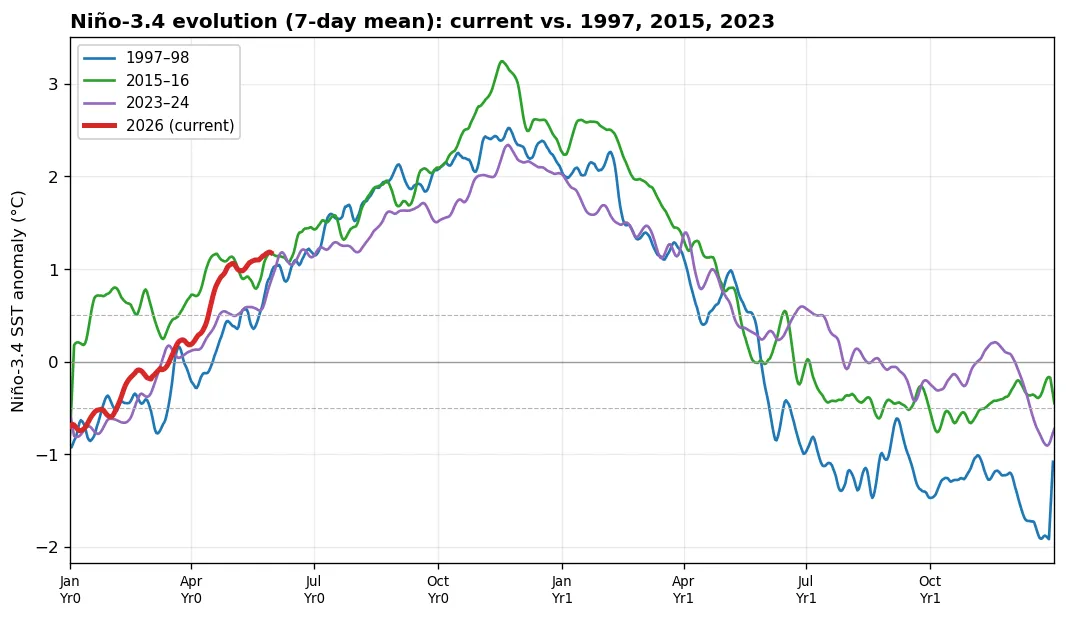
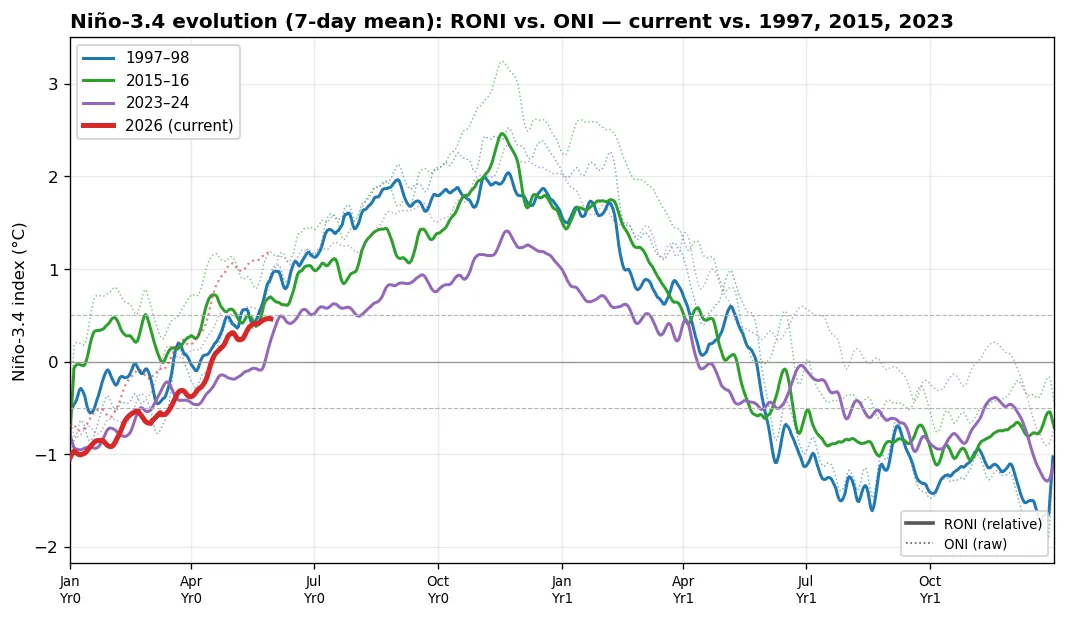
El Niño analogs: detrend for comparability (RONI/ONI + global-mean-removed maps)
- Niño-3.4 overlay now shows RONI (Niño-3.4 minus 20°S–20°N tropical mean, bold)
  with the raw ONI faint/dotted for reference — removes the warming background so
  events decades apart line up (2015's record ONI collapses toward 1997 in RONI)
- flavor bars are now relative Niño indices (each region minus the 20°S–20°N mean)
- matching-phase maps subtract the area-weighted global-mean anomaly (detrended)
- captions/footers updated to explain the relative framing

diff --git a/sst.html b/sst.html
@@ -296,30 +296,30 @@
     <div class="chart-card">
       <div class="chart-card-header">
         <h2>This Event vs. 1997, 2015 &amp; 2023</h2>
-        <p>Niño-3.4 anomaly (7-day running mean) through each event's development year and the following year &mdash; the current event (bold red) overlaid on the three most recent strong/super El Niños.</p>
+        <p>Niño-3.4 evolution (7-day running mean) through each event's development year and the next. Bold lines are <b>RONI</b> &mdash; the relative index (Niño-3.4 minus the 20&deg;S&ndash;20&deg;N tropical-mean anomaly), which removes the rising warming background so events decades apart are comparable; faint dotted lines are the raw <b>ONI</b> for reference. The current event is red. Note how 2015's record ONI shrinks toward 1997 once the background is removed.</p>
       </div>
       <div class="img-wrap"><img src="assets/sst/events_nino34.webp?v=202606011324" alt="Niño-3.4 evolution: current event vs 1997/2015/2023" loading="lazy"></div>
-      <div class="chart-card-footer"><span class="chart-sources">OISST v2.1 daily &middot; 7-day mean &middot; anomaly vs 1991&ndash;2020</span></div>
+      <div class="chart-card-footer"><span class="chart-sources">OISST v2.1 daily &middot; 7-day mean &middot; RONI = Niño-3.4 &minus; 20&deg;S&ndash;20&deg;N mean</span></div>
     </div>
 
     <!-- EVENT COMPARISON: multi-region flavor bars -->
     <div class="chart-card">
       <div class="chart-card-header">
         <h2>El Niño Flavor &mdash; Niño Regions vs. Analogs</h2>
-        <p>Niño-1+2 / 3 / 3.4 / 4 anomalies (7-day mean) at the same calendar day as the latest data, for the current event and the three analogs. Strong eastern (1+2, 3) relative to central (4) marks an East-Pacific-flavored event.</p>
+        <p>Relative Niño-1+2 / 3 / 3.4 / 4 anomalies (7-day mean, each minus the 20&deg;S&ndash;20&deg;N tropical mean) at the same calendar day as the latest data, for the current event and the three analogs. Removing the tropical background makes the regions comparable across events; strong eastern (1+2, 3) relative to central (4) marks an East-Pacific-flavored event.</p>
       </div>
       <div class="img-wrap"><img src="assets/sst/events_bars.webp?v=202606011324" alt="Niño-region anomalies, current event vs analogs" loading="lazy"></div>
-      <div class="chart-card-footer"><span class="chart-sources">OISST v2.1 daily &middot; 7-day mean &middot; same-phase comparison</span></div>
+      <div class="chart-card-footer"><span class="chart-sources">OISST v2.1 daily &middot; 7-day mean &middot; relative to 20&deg;S&ndash;20&deg;N mean</span></div>
     </div>
 
     <!-- EVENT COMPARISON: matching-phase maps -->
     <div class="chart-card">
       <div class="chart-card-header">
         <h2>Matching-Phase SST Anomaly Maps</h2>
-        <p>Global SST anomaly for the latest available week vs. the same calendar week in 1997, 2015 and 2023. Note how much warmer the global baseline is now than in 1997 &mdash; the same ENSO state now sits on a hotter ocean.</p>
+        <p>Relative SST anomaly &mdash; the area-weighted global-mean anomaly removed from each map &mdash; for the latest available week vs. the same calendar week in 1997, 2015 and 2023. Stripping the global mean removes the secular warming trend, so the ENSO spatial pattern is comparable across events that sat on very different baselines.</p>
       </div>
-      <div class="img-wrap"><img src="assets/sst/events_maps.webp?v=202606011324" alt="Matching-phase global SST anomaly maps" loading="lazy"></div>
-      <div class="chart-card-footer"><span class="chart-sources">OISST v2.1 daily &middot; 7-day mean &middot; anomaly vs 1991&ndash;2020</span></div>
+      <div class="img-wrap"><img src="assets/sst/events_maps.webp?v=202606011324" alt="Matching-phase relative SST anomaly maps (global-mean removed)" loading="lazy"></div>
+      <div class="chart-card-footer"><span class="chart-sources">OISST v2.1 daily &middot; 7-day mean &middot; global-mean removed</span></div>
     </div>
 
   </div>

diff --git a/scripts/sst/sst_events.py b/scripts/sst/sst_events.py
@@ -6,10 +6,14 @@ El Niño event-comparison products: track the current ENSO evolution against the
 Data: OISST daily anomaly files (already anomalies vs 1991-2020) for just the
 event years — small, reliable (no OPeNDAP), 7-day-smoothed.
 
+The warming background is removed so events decades apart are comparable:
+indices subtract the 20°S–20°N tropical-mean anomaly (RONI-style "relative"
+index); the global maps subtract the area-weighted global-mean anomaly.
+
 Products (assets/sst/):
-  events_nino34.webp   Niño-3.4 weekly evolution overlay (current vs analogs)
-  events_bars.webp     Niño-1+2/3/3.4/4 same-phase flavor bars
-  events_maps.webp     matching-phase global anomaly maps (current vs analogs)
+  events_nino34.webp   Niño-3.4 weekly overlay — RONI (bold) + raw ONI (faint)
+  events_bars.webp     relative Niño-1+2/3/3.4/4 same-phase flavor bars
+  events_maps.webp     matching-phase global anomaly maps (global-mean removed)
 """
 from __future__ import annotations
 
@@ -69,13 +73,37 @@ def _open(years):
     return ds, var, la, lo
 
 
-def region_daily(ds, var, la, lo, region) -> pd.Series:
+def _latslice(ds, la, lo_lat):
+    """lat slice honoring the file's latitude ordering (OISST is N→S)."""
+    return (slice(lo_lat[1], lo_lat[0]) if float(ds[la][0]) > float(ds[la][-1])
+            else slice(lo_lat[0], lo_lat[1]))
+
+
+_TM_CACHE: dict = {}
+
+
+def tropical_mean_series(ds, var, la, lo) -> pd.Series:
+    """Area-weighted 20°S–20°N mean anomaly (7-day smoothed). Subtracting this
+    from a Niño box gives the RELATIVE index (RONI-style): it removes the slowly
+    rising tropical background so events decades apart are comparable."""
+    key = id(ds)
+    if key not in _TM_CACHE:
+        sub = ds[var].sel({la: _latslice(ds, la, (-20, 20))}).isel({lo: slice(None, None, 2)})
+        w = np.cos(np.deg2rad(sub[la]))
+        tm = sub.weighted(w).mean((la, lo)).compute()
+        s = pd.Series(tm.values, index=pd.to_datetime(tm.time.values)).dropna()
+        _TM_CACHE[key] = s.rolling(SMOOTH, center=True, min_periods=3).mean()
+    return _TM_CACHE[key]
+
+
+def region_daily(ds, var, la, lo, region, relative=False) -> pd.Series:
     b = NINO[region]
-    latsel = (slice(b["lat"][1], b["lat"][0]) if float(ds[la][0]) > float(ds[la][-1])
-              else slice(b["lat"][0], b["lat"][1]))
-    box = ds[var].sel({la: latsel, lo: slice(*b["lon"])}).mean((la, lo)).compute()
+    box = ds[var].sel({la: _latslice(ds, la, b["lat"]), lo: slice(*b["lon"])}).mean((la, lo)).compute()
     s = pd.Series(box.values, index=pd.to_datetime(box.time.values)).dropna()
-    return s.rolling(SMOOTH, center=True, min_periods=3).mean()      # weekly-smoothed
+    s = s.rolling(SMOOTH, center=True, min_periods=3).mean()         # weekly-smoothed
+    if relative:                                                      # minus 20°S–20°N mean
+        s = (s - tropical_mean_series(ds, var, la, lo).reindex(s.index)).dropna()
+    return s
 
 
 # ── 1. Niño-3.4 weekly evolution overlay ──────────────────────────────────────
@@ -83,18 +111,20 @@ def overlay_nino34(out: Path):
     y0 = current_year()
     years = [y for yr in ANALOGS for y in (yr, yr + 1)] + [y0]
     ds, var, la, lo = _open(years)
-    s = region_daily(ds, var, la, lo, "3.4")
+    roni = region_daily(ds, var, la, lo, "3.4", relative=True)   # RONI (primary)
+    oni = region_daily(ds, var, la, lo, "3.4")                   # raw ONI (reference)
 
     fig, ax = plt.subplots(figsize=(9, 5.2))
     def devdays(idx, yr):
         return (idx - pd.Timestamp(yr, 1, 1)).days
+    def draw(s, yr, col, lw, **kw):
+        seg = s[f"{yr}":f"{yr+1}"] if yr in ANALOGS else s[f"{yr}":]
+        ax.plot(devdays(seg.index, yr), seg.values, color=col, lw=lw, **kw)
     for yr in ANALOGS:
-        seg = s[f"{yr}":f"{yr+1}"]
-        ax.plot(devdays(seg.index, yr), seg.values, color=ANALOG_COLORS[yr],
-                lw=1.6, label=f"{yr}–{str(yr+1)[2:]}")
-    cur = s[f"{y0}":]
-    ax.plot(devdays(cur.index, y0), cur.values, color="#d62728", lw=3.0,
-            label=f"{y0} (current)", zorder=5)
+        draw(oni, yr, ANALOG_COLORS[yr], 0.9, ls=":", alpha=0.6)            # ONI faint
+        draw(roni, yr, ANALOG_COLORS[yr], 1.8, label=f"{yr}–{str(yr+1)[2:]}")  # RONI bold
+    draw(oni, y0, "#d62728", 1.3, ls=":", alpha=0.6, zorder=5)
+    draw(roni, y0, "#d62728", 3.0, label=f"{y0} (current)", zorder=6)
     ax.axhline(0, color="0.6", lw=0.8)
     for g in (0.5, -0.5):
         ax.axhline(g, color="0.7", lw=0.7, ls="--")
@@ -105,8 +135,13 @@ def overlay_nino34(out: Path):
     ax.set_xticklabels([f"{m}\nYr0" for m in ("Jan", "Apr", "Jul", "Oct")] +
                        [f"{m}\nYr1" for m in ("Jan", "Apr", "Jul", "Oct")], fontsize=8)
     ax.set_xlim(0, 730)
-    ax.set_ylabel("Niño-3.4 SST anomaly (°C)")
-    ax.set_title("Niño-3.4 evolution (7-day mean): current vs. 1997, 2015, 2023",
+    ax.set_ylabel("Niño-3.4 index (°C)")
+    # style legend: solid = RONI, dotted = ONI
+    style_h = [plt.Line2D([], [], color="0.35", lw=2.2, label="RONI (relative)"),
+               plt.Line2D([], [], color="0.35", lw=1.0, ls=":", label="ONI (raw)")]
+    leg2 = ax.legend(handles=style_h, fontsize=8, loc="lower right", framealpha=0.9)
+    ax.add_artist(leg2)
+    ax.set_title("Niño-3.4 evolution (7-day mean): RONI vs. ONI — current vs. 1997, 2015, 2023",
                  fontsize=12, fontweight="bold", loc="left")
     ax.legend(fontsize=9, loc="upper left", framealpha=0.9)
     ax.grid(True, alpha=0.25)
@@ -114,7 +149,8 @@ def overlay_nino34(out: Path):
     out.parent.mkdir(parents=True, exist_ok=True)
     fig.savefig(out, dpi=120, bbox_inches="tight")
     plt.close(fig)
-    print(f"wrote {out} (latest {s.dropna().index[-1]:%Y-%m-%d} {s.dropna().iloc[-1]:+.2f}°C)")
+    print(f"wrote {out} (latest {roni.index[-1]:%Y-%m-%d} RONI {roni.iloc[-1]:+.2f} / "
+          f"ONI {oni.reindex([roni.index[-1]]).iloc[0]:+.2f}°C)")
 
 
 # ── 2. Multi-region flavor bars ───────────────────────────────────────────────
@@ -122,7 +158,7 @@ def bars_multiregion(out: Path):
     y0 = current_year()
     ds, var, la, lo = _open([y0] + ANALOGS)
     regions = list(NINO)
-    series = {r: region_daily(ds, var, la, lo, r) for r in regions}
+    series = {r: region_daily(ds, var, la, lo, r, relative=True) for r in regions}
     latest = series["3.4"].dropna().index[-1]
     doy = latest.dayofyear
 
@@ -139,8 +175,8 @@ def bars_multiregion(out: Path):
                color=col, label=lab)
     ax.axhline(0, color="0.5", lw=0.8)
     ax.set_xticks(x); ax.set_xticklabels([f"Niño-{r}" for r in regions])
-    ax.set_ylabel("SST anomaly (°C)")
-    ax.set_title(f"Niño-region anomalies at the same phase (~{latest:%b %d}) — current vs. analogs",
+    ax.set_ylabel("Relative SST anomaly (°C)\n(minus 20°S–20°N mean)")
+    ax.set_title(f"Relative Niño-region anomalies at the same phase (~{latest:%b %d}) — current vs. analogs",
                  fontsize=12, fontweight="bold", loc="left")
     ax.legend(fontsize=8.5, ncol=2); ax.grid(True, axis="y", alpha=0.25)
     fig.tight_layout()
@@ -161,12 +197,13 @@ def matching_phase_maps(out: Path):
 
     def week_map(yr):
         end = pd.Timestamp(yr, 1, 1) + pd.Timedelta(days=int(doy) - 1)
-        sl = ds[var].sel(time=slice(end - pd.Timedelta(days=SMOOTH - 1), end)).mean("time")
-        return sl.compute()
+        sl = ds[var].sel(time=slice(end - pd.Timedelta(days=SMOOTH - 1), end)).mean("time").compute()
+        gm = float(sl.weighted(np.cos(np.deg2rad(sl[la]))).mean((la, lo)))  # area-wtd global mean
+        return sl - gm                                                       # detrended (relative)
 
     PC = ccrs.PlateCarree(); proj = ccrs.PlateCarree(central_longitude=180)
     fig, axes = plt.subplots(2, 2, figsize=(12, 6.4), subplot_kw=dict(projection=proj))
-    fig.suptitle(f"Global SST anomaly — week ending ~{latest:%b %d} of each event",
+    fig.suptitle(f"Relative SST anomaly (global-mean removed) — week ending ~{latest:%b %d} of each event",
                  fontsize=13, fontweight="bold")
     im = None
     for ax, yr, lab in zip(axes.ravel(), years, labels):
@@ -178,7 +215,7 @@ def matching_phase_maps(out: Path):
         ax.add_feature(cfeature.COASTLINE.with_scale("110m"), edgecolor="#555", linewidth=0.3)
         ax.set_title(lab, fontsize=10)
     fig.colorbar(im, cax=fig.add_axes([0.92, 0.15, 0.014, 0.7]),
-                 extend="both").set_label("SST anomaly (°C)", fontsize=9)
+                 extend="both").set_label("SST anomaly − global mean (°C)", fontsize=9)
     fig.subplots_adjust(left=0.02, right=0.9, top=0.9, bottom=0.04, wspace=0.05, hspace=0.15)
     fig.savefig(out, dpi=110, bbox_inches="tight"); plt.close(fig)
     print(f"wrote {out} (week ending ~{latest:%b %d})")
